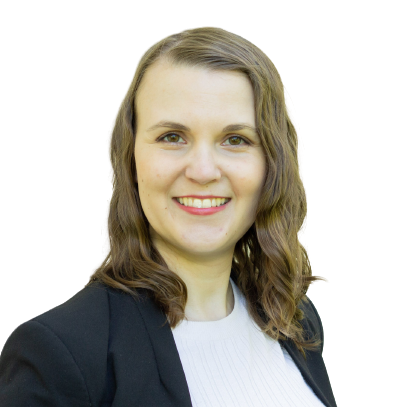
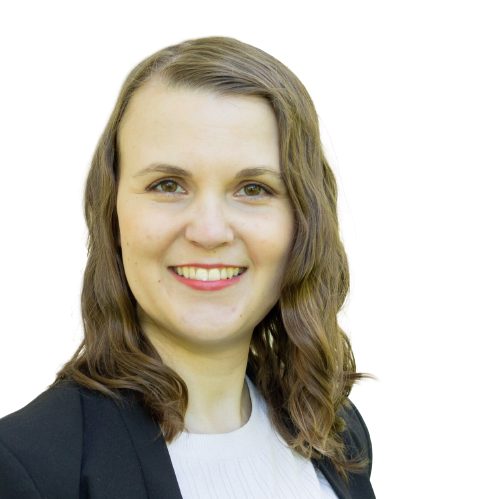
get meeting calendar data from wp

diff --git a/src/components/pages/meetUs/TeamAvailabilities.jsx b/src/components/pages/meetUs/TeamAvailabilities.jsx
@@ -1,13 +1,10 @@
 import React from 'react';
 
-// Data
-import { teamData } from './meetUsData';
 
 // Material-UI
 import { makeStyles } from '@material-ui/core/styles';
 import {
   Card,
-  CardMedia,
   CardContent,
   CardActionArea,
   Typography,
@@ -16,28 +13,24 @@ import {
 import AccessTimeIcon from '@material-ui/icons/AccessTime';
 import EventAvailableIcon from '@material-ui/icons/EventAvailable';
 
-const TeamAvailabilities = () => {
+const TeamAvailabilities = ({meetingData}) => {
   const classes = useStyles();
-
-  console.log(teamData);
   return (
     <div className={classes.root}>
       <div className={classes.container}>
-        {teamData.map((item, index) => (
+        {meetingData?.map(({acf}, index) => (
           <Card key={index} className={classes.card}>
             <CardActionArea>
-              <CardMedia
-                component='img'
-                alt={item.title}
+              <img
+                alt={acf.title}
                 className={classes.media}
-                image={item.photo}
-                title={item.title}
+                src={acf.photo.sizes.us_600_400_crop}
               />
               <CardContent className={classes.cardContent}>
-                <Typography variant='h4'>{item.name}</Typography>
-                <Typography variant='subtitle2'>{item.title}</Typography>
+                <Typography variant='h4'>{acf.name}</Typography>
+                <Typography variant='subtitle2'>{acf.title}</Typography>
                 <Typography variant='subtitle1' component='p' className={classes.text}>
-                  {item.expertiseAreas}
+                  {acf.expertise}
                 </Typography>
                 <div className={classes.icons}>
                   <div
@@ -47,7 +40,7 @@ const TeamAvailabilities = () => {
                       alignItems: 'center',
                       justifyContent: 'flex-start',
                     }}>
-                    <AccessTimeIcon style={{ marginRight: '5px' }} /> {item.availabilityTime}
+                    <AccessTimeIcon style={{ marginRight: '5px' }} /> {acf.time}
                   </div>
                   <div
                     style={{
@@ -56,14 +49,14 @@ const TeamAvailabilities = () => {
                       alignItems: 'center',
                       justifyContent: 'flex-start',
                     }}>
-                    <EventAvailableIcon style={{ marginRight: '5px' }} /> {item.availabilityDay}
+                    <EventAvailableIcon style={{ marginRight: '5px' }} /> {acf.day}
                   </div>
                 </div>
                 <Button
                   variant='outlined'
                   color='primary'
                   className={classes.btn}
-                  href={item.link}
+                  href={acf.link}
                   target='_blank'>
                   Book a Meeting
                 </Button>
@@ -108,21 +101,8 @@ const useStyles = makeStyles((theme) => ({
     margin: 'auto',
     borderRadius: '10px',
     /* maxWidth: 280, */
-    minHeight: 550,
-    maxHeight: 550,
-    [theme.breakpoints.down('md')]: {
-      minHeight: 560,
-      maxHeight: 560,
-    },
-    [theme.breakpoints.down('sm')]: {
-      marginTop: theme.spacing(1),
-      minHeight: 540,
-      maxHeight: 540,
-    },
-    [theme.breakpoints.down('xs')]: {
-      minHeight: 520,
-      maxHeight: 520,
-    },
+    minHeight: 600,
+    maxHeight: 600,
   },
   cardContent: {
     display: 'flex',
@@ -145,7 +125,11 @@ const useStyles = makeStyles((theme) => ({
     backgroundColor: '#fff',
   },
   media: {
-    height: 220,
+    minWidth: '100%',
+    maxWidth: '100%',
+    minHeight: 280,
+    maxHeight: 280,
+    objectFit:'cover'
     /*     [theme.breakpoints.only('sm')]: {
       height: 140,
     }, */
@@ -173,13 +157,12 @@ const useStyles = makeStyles((theme) => ({
     },
   },
   icons: {
-    minWidth: '95%',
+    minWidth: '100%',
     [theme.breakpoints.down('xs')]: {
-      minWidth: '60%',
-      maxWidth: '60%',
+      minWidth: '80%',
+      maxWidth: '80%',
     },
     display: 'flex',
-    flexWrap: 'wrap',
     justifyContent: 'space-between',
     alignItems: 'center',
   },

diff --git a/src/components/pages/meetUs/index.jsx b/src/components/pages/meetUs/index.jsx
@@ -1,4 +1,5 @@
-import React from 'react';
+import React, { useEffect, useState } from 'react';
+import axios from 'axios';
 
 // META TAG
 import MetaTag from '../../utils/MetaTag';
@@ -27,6 +28,20 @@ TagManager.dataLayer({
 
 const MeetUs = () => {
   const classes = useStyles();
+  const [meetingData, setMeetingData] = useState(null);
+
+  const getMeetingCalendarsData = async () => {
+    const res = await axios.get(
+      'https://theshortcut.org/wp-json/wp/v2/meeting-calendars/?per_page=50'
+    );
+    return setMeetingData(res.data);
+  };
+
+  useEffect(() => {
+    if (!meetingData) {
+      getMeetingCalendarsData();
+    }
+  }, [meetingData]);
 
   return (
     <div>
@@ -50,7 +65,7 @@ const MeetUs = () => {
         Meet Us
       </Typography>
       <Subject />
-      <TeamAvailabilities />
+      <TeamAvailabilities meetingData={meetingData} />
     </div>
   );
 };

diff --git a/src/components/layout/navBar/CovidBanner.jsx b/src/components/layout/navBar/CovidBanner.jsx
@@ -56,7 +56,7 @@ const CovidBanner = () => {
         onClose={handleClose}
         message={
           <Typography variant='body1'>
-            <strong>Due to COVID-19 situation </strong>, our lab is currently only available through
+            <strong>Due to COVID-19 situation</strong>, our lab is currently only available through
             online meetings. Please book
             <a href='/meet-us'>
               <Button

diff --git a/src/components/pages/meetUs/meetUsData.js b/src/components/pages/meetUs/meetUsData.js
@@ -8,7 +8,7 @@ import jessiPic from '../../../assets/photos/team/jessi.png';
 
 export const teamData = [
   {
-    name: 'kristina Sweet',
+    name: 'Kristina Sweet',
     title: 'CEO',
     photo: kristinaPic,
     availabilityTime: '12:30 - 14:00',
